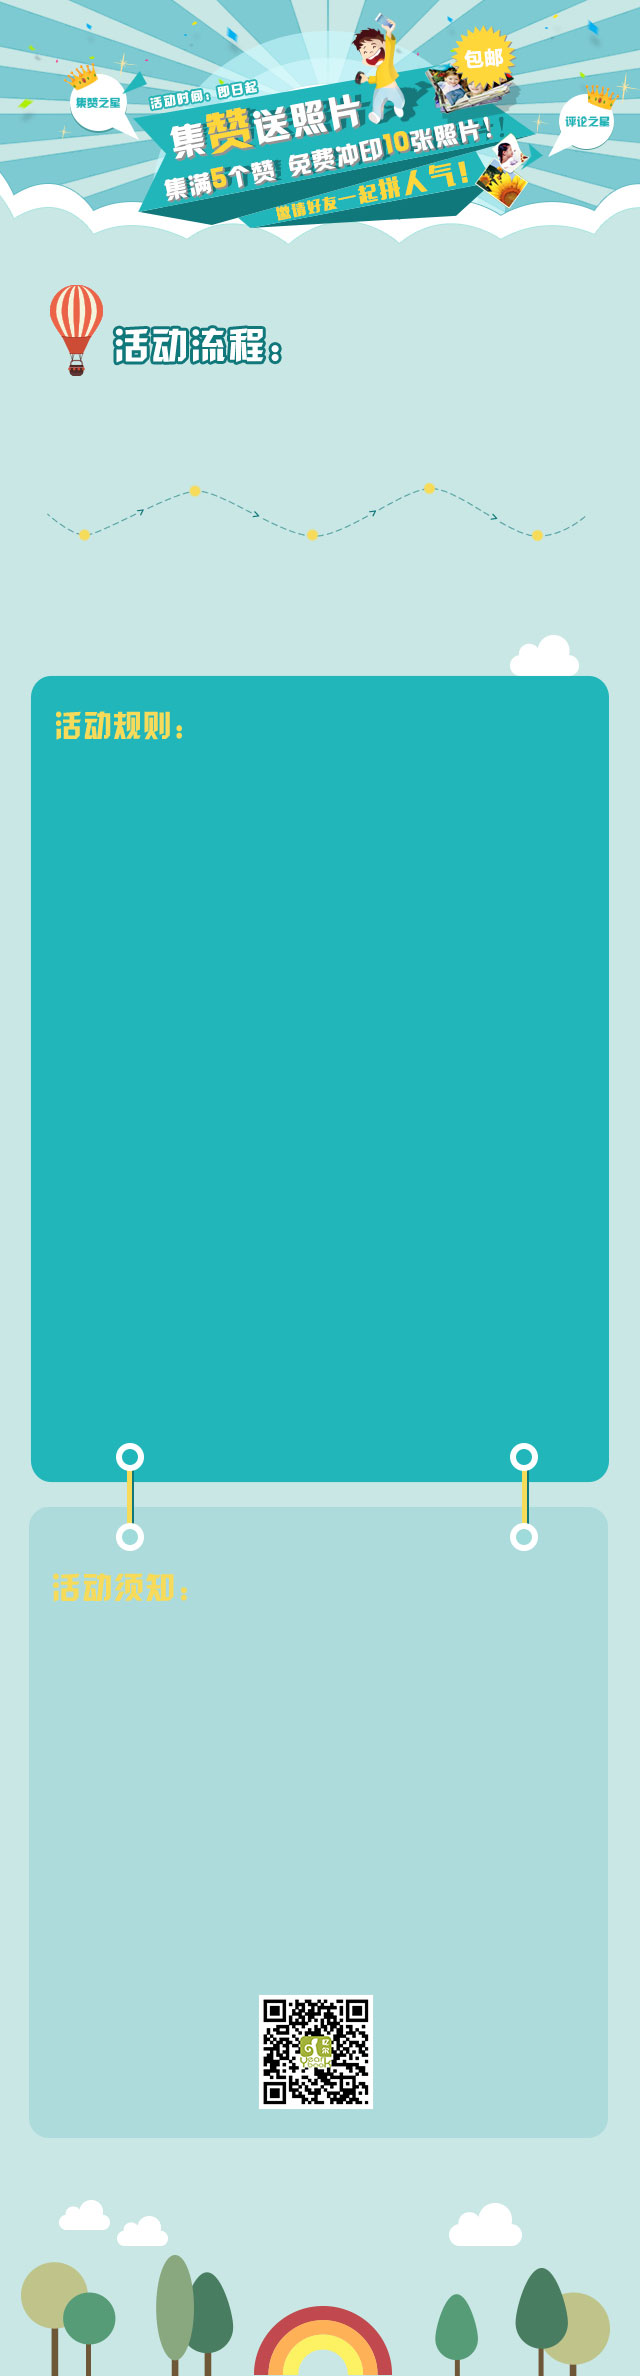
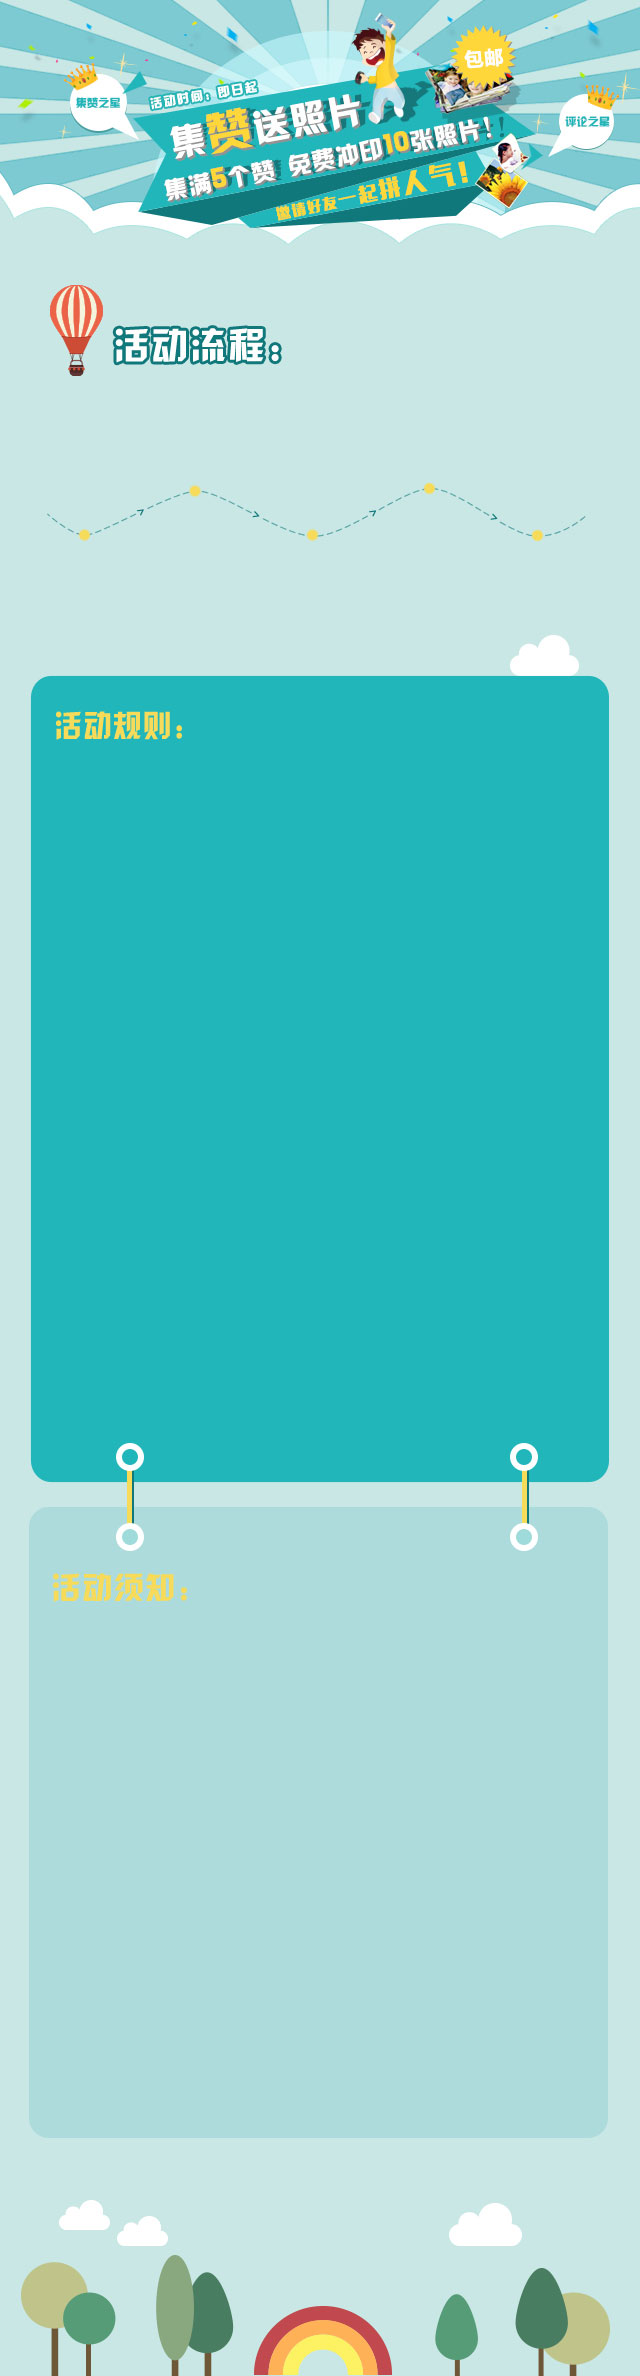
1603 qrcode

Changed region(s): [[0.4062, 0.8409, 0.5938, 0.9032]]

diff --git a/src/m/activity_1603.html b/src/m/activity_1603.html
@@ -71,6 +71,7 @@
 				</li>
 			</ul>
 		</div>
+		<img class='qrcode' src="../img/m/activity/activity_1603_qrcode_00000.jpg">
 	</div>
 	
 	<!--主要内容-->
@@ -96,24 +97,19 @@
 			$('.main_container').css({
 				height:function(){
 					var height=0;
-					// if (windowWidth>=docMinwidth) {
-					// 	height=bgHeight*(windowWidth/docMaxwidth);
-					// }else{
 						height=bgHeight*(bodyWidth/bgWidth);
-					//}
-					console.log(bodyWidth)
 					return height;
 				}
 			});
 		};
-		// bgSizing();
-		// $(window).resize(function(){
-		// 	bgSizing();
-		// })
+		bgSizing();
+		$(window).resize(function(){
+			bgSizing();
+		})
 		
 		//解决UC移动端浏览器rem样式在加载完成后不被解析的问题！
 		var styleLink=$('link');
-		$('html').append(styleLink)
+		$('head').append(styleLink)
 	}
 	</script>
 </body>

diff --git a/src/css/activity/m_1603.css b/src/css/activity/m_1603.css
@@ -14,10 +14,10 @@
 	width: 13rem;
 }
 .activitymustknow{
+	margin: 6rem 0 0 0;
 	width: 100%;
-/*	max-width: 640px;*/
-	position: absolute;
-	top: 40rem;
+	position: relative;
+/*	top: 6rem;*/
 }
 .activitymustknow ul{
 	margin: 0 auto;
@@ -93,4 +93,10 @@
 .activityprocedure .step_5{
 	left: 11.4rem;
 	top: 3rem;
+}
+.qrcode{
+	display: block;
+	margin: 0 auto;
+	width: 3rem;
+	height: 3rem;
 }
